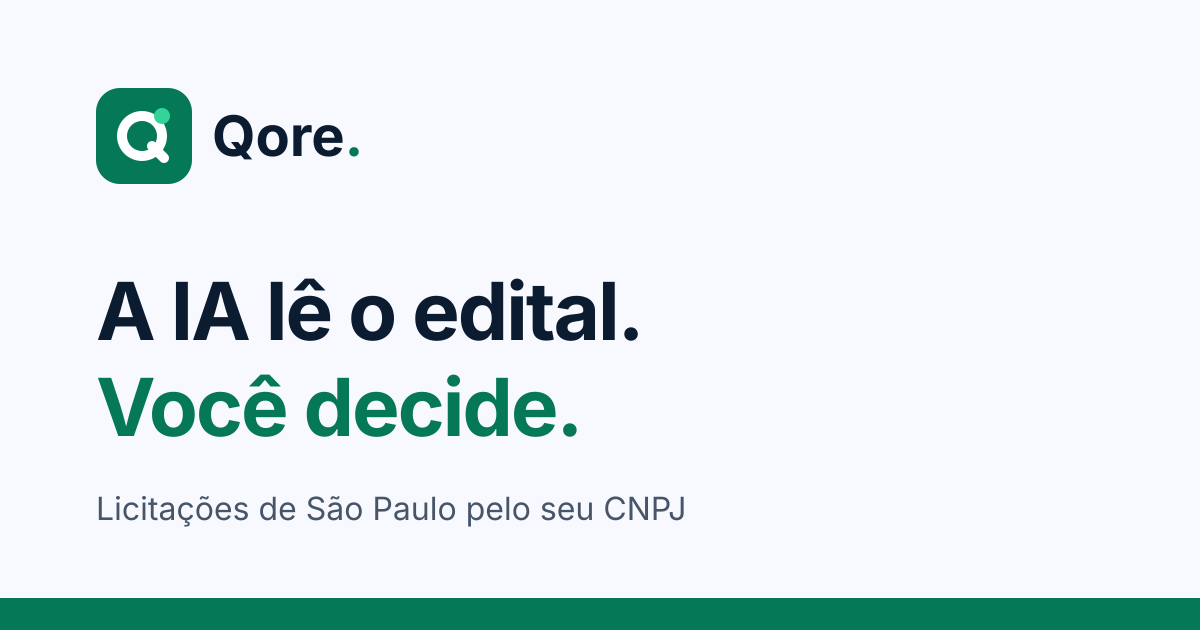
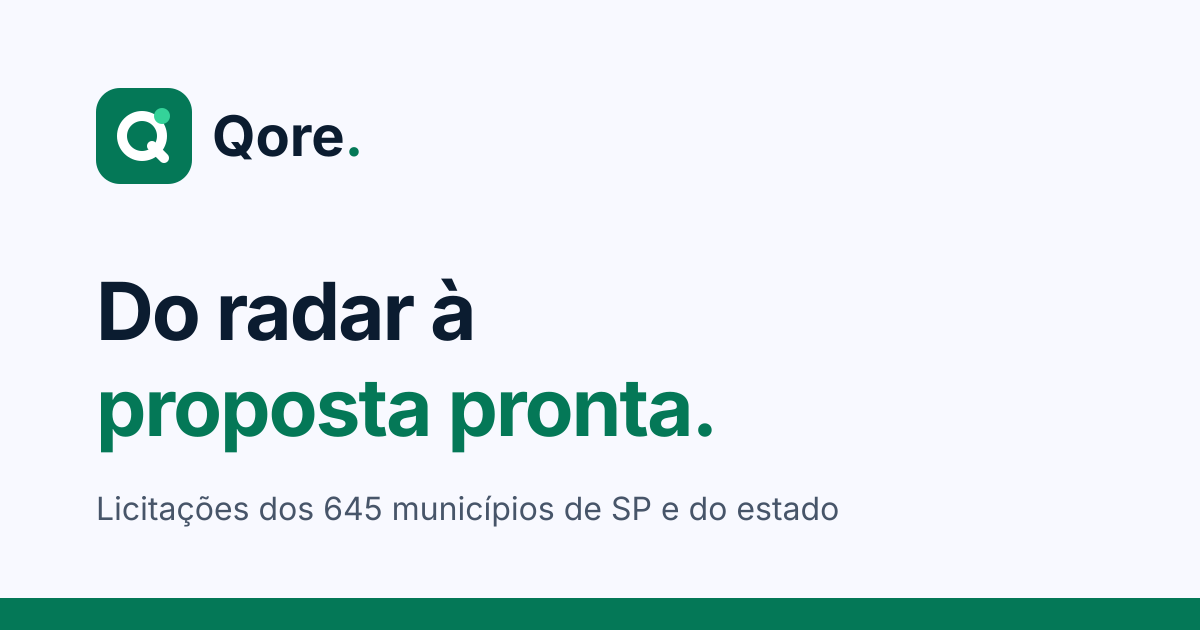
feat: position metadata and share card around radar-to-proposal

Changed region(s): [[0.0617, 0.573, 0.6167, 0.7238], [0.0617, 0.4222, 0.555, 0.5429], [0.2467, 0.7841, 0.7092, 0.8444]]

diff --git a/src/lib/__tests__/site-metadata.test.ts b/src/lib/__tests__/site-metadata.test.ts
@@ -1,12 +1,12 @@
 import { describe, expect, it } from "vitest";
+import { siteConfig } from "@/config/site";
 import { buildRootMetadata } from "../site-metadata";
 
-const metadata = buildRootMetadata({
-  siteName: "Qore",
-  slogan: "A IA lê o edital. Você decide.",
-  description: "Descrição",
-  siteUrl: "https://preview.qore.com.br",
-});
+const metadata = buildRootMetadata({ ...siteConfig, siteName: siteConfig.name, siteUrl: "https://preview.qore.com.br" });
+
+const OG_TITLE = "Qore: licitações de SP, do radar à proposta pronta";
+const OG_DESCRIPTION =
+  "Radar pelo CNPJ, resumo do edital com IA, proposta ~80% pronta, certidões e prazos. Os 645 municípios de SP.";
 
 describe("buildRootMetadata", () => {
   it("sets the canonical base from the site URL", () => {
@@ -14,16 +14,36 @@ describe("buildRootMetadata", () => {
     expect(metadata.alternates?.canonical).toBe("/");
   });
 
-  it("titles pages with the slogan and a template", () => {
-    expect(metadata.title).toEqual({ default: "Qore | A IA lê o edital. Você decide.", template: "%s | Qore" });
+  it("titles pages with the positioning title, not the slogan, and a template", () => {
+    expect(metadata.title).toEqual({
+      default: "Qore | Licitações de São Paulo, do radar à proposta",
+      template: "%s | Qore",
+    });
   });
 
-  it("shares a 1200×630 Open Graph image and a large Twitter card", () => {
+  it("describes the platform for search results", () => {
+    expect(metadata.description).toBe(
+      "Plataforma de licitações para quem vende ao governo em SP: radar pelo CNPJ, resumo do edital com IA, proposta ~80% pronta, certidões e prazos da equipe.",
+    );
+  });
+
+  it("shares its own title and description on Open Graph and Twitter", () => {
+    expect(metadata.openGraph).toMatchObject({ title: OG_TITLE, description: OG_DESCRIPTION });
+    expect(metadata.twitter).toMatchObject({ title: OG_TITLE, description: OG_DESCRIPTION });
+  });
+
+  it("shares a cache-busted 1200×630 Open Graph image and a large Twitter card", () => {
     expect(metadata.openGraph).toMatchObject({
       locale: "pt_BR",
       type: "website",
-      images: [{ url: "/og.png", width: 1200, height: 630 }],
+      images: [{ url: "/og.png?v=2", width: 1200, height: 630, alt: OG_TITLE }],
     });
-    expect(metadata.twitter).toMatchObject({ card: "summary_large_image", images: ["/og.png"] });
+    expect(metadata.twitter).toMatchObject({ card: "summary_large_image", images: ["/og.png?v=2"] });
+  });
+});
+
+describe("siteConfig", () => {
+  it("carries the positioning slogan", () => {
+    expect(siteConfig.slogan).toBe("Sua operação de licitação em um lugar.");
   });
 });

diff --git a/src/lib/site-metadata.ts b/src/lib/site-metadata.ts
@@ -2,28 +2,36 @@ import type { Metadata } from "next";
 
 interface RootMetadataInput {
   siteName: string;
-  slogan: string;
+  title: string;
   description: string;
+  ogTitle: string;
+  ogDescription: string;
   siteUrl: string;
 }
 
-export const buildRootMetadata = ({ siteName, slogan, description, siteUrl }: RootMetadataInput): Metadata => {
-  const title = `${siteName} | ${slogan}`;
-  return {
-    metadataBase: new URL(siteUrl),
-    title: { default: title, template: `%s | ${siteName}` },
-    description,
-    alternates: { canonical: "/" },
-    openGraph: {
-      type: "website",
-      locale: "pt_BR",
-      url: "/",
-      siteName,
-      title,
-      description,
-      images: [{ url: "/og.png", width: 1200, height: 630, alt: `${siteName}: ${slogan}` }],
-    },
-    twitter: { card: "summary_large_image", title, description, images: ["/og.png"] },
-    robots: { index: true, follow: true },
-  };
-};
+const OG_IMAGE_URL = "/og.png?v=2";
+
+export const buildRootMetadata = ({
+  siteName,
+  title,
+  description,
+  ogTitle,
+  ogDescription,
+  siteUrl,
+}: RootMetadataInput): Metadata => ({
+  metadataBase: new URL(siteUrl),
+  title: { default: title, template: `%s | ${siteName}` },
+  description,
+  alternates: { canonical: "/" },
+  openGraph: {
+    type: "website",
+    locale: "pt_BR",
+    url: "/",
+    siteName,
+    title: ogTitle,
+    description: ogDescription,
+    images: [{ url: OG_IMAGE_URL, width: 1200, height: 630, alt: ogTitle }],
+  },
+  twitter: { card: "summary_large_image", title: ogTitle, description: ogDescription, images: [OG_IMAGE_URL] },
+  robots: { index: true, follow: true },
+});

diff --git a/src/config/site.ts b/src/config/site.ts
@@ -4,16 +4,23 @@ import type { LegalIdentity } from "@/types";
 interface SiteConfig {
   name: string;
   slogan: string;
+  title: string;
   description: string;
+  ogTitle: string;
+  ogDescription: string;
   url: string;
   legal: LegalIdentity;
 }
 
 export const siteConfig: SiteConfig = {
   name: "Qore",
-  slogan: "A IA lê o edital. Você decide.",
+  slogan: "Sua operação de licitação em um lugar.",
+  title: "Qore | Licitações de São Paulo, do radar à proposta",
   description:
-    "Encontre licitações de São Paulo pelo seu CNPJ, entenda o edital com um resumo de IA que cita a página de origem e monte sua proposta com segurança.",
+    "Plataforma de licitações para quem vende ao governo em SP: radar pelo CNPJ, resumo do edital com IA, proposta ~80% pronta, certidões e prazos da equipe.",
+  ogTitle: "Qore: licitações de SP, do radar à proposta pronta",
+  ogDescription:
+    "Radar pelo CNPJ, resumo do edital com IA, proposta ~80% pronta, certidões e prazos. Os 645 municípios de SP.",
   url: resolveSiteUrl(process.env.NEXT_PUBLIC_SITE_URL),
   legal: {
     companyName: "",

diff --git a/tests/unit/brand-assets.test.ts b/tests/unit/brand-assets.test.ts
@@ -1,4 +1,5 @@
 // @vitest-environment node
+import { readFileSync } from "node:fs";
 import { join } from "node:path";
 import sharp from "sharp";
 import { describe, expect, it } from "vitest";
@@ -12,5 +13,13 @@ describe("brand assets", () => {
   it("has a 180×180 apple icon", async () => {
     const { width, height } = await sharp(join(process.cwd(), "src", "app", "apple-icon.png")).metadata();
     expect([width, height]).toEqual([180, 180]);
+  });
+
+  it("draws the positioning headline on the Open Graph image", () => {
+    const script = readFileSync(join(process.cwd(), "scripts", "generate-brand-assets.mjs"), "utf8");
+    expect(script).toContain('fill="#0b1c30">Do radar à</text>');
+    expect(script).toContain('fill="#047857">proposta pronta.</text>');
+    expect(script).toContain(">Licitações dos 645 municípios de SP e do estado</text>");
+    expect(script).not.toContain("Você decide");
   });
 });

diff --git a/src/app/layout.tsx b/src/app/layout.tsx
@@ -24,8 +24,10 @@ const hankenGrotesk = localFont({
 
 export const metadata: Metadata = buildRootMetadata({
   siteName: siteConfig.name,
-  slogan: siteConfig.slogan,
+  title: siteConfig.title,
   description: siteConfig.description,
+  ogTitle: siteConfig.ogTitle,
+  ogDescription: siteConfig.ogDescription,
   siteUrl: siteConfig.url,
 });
 
